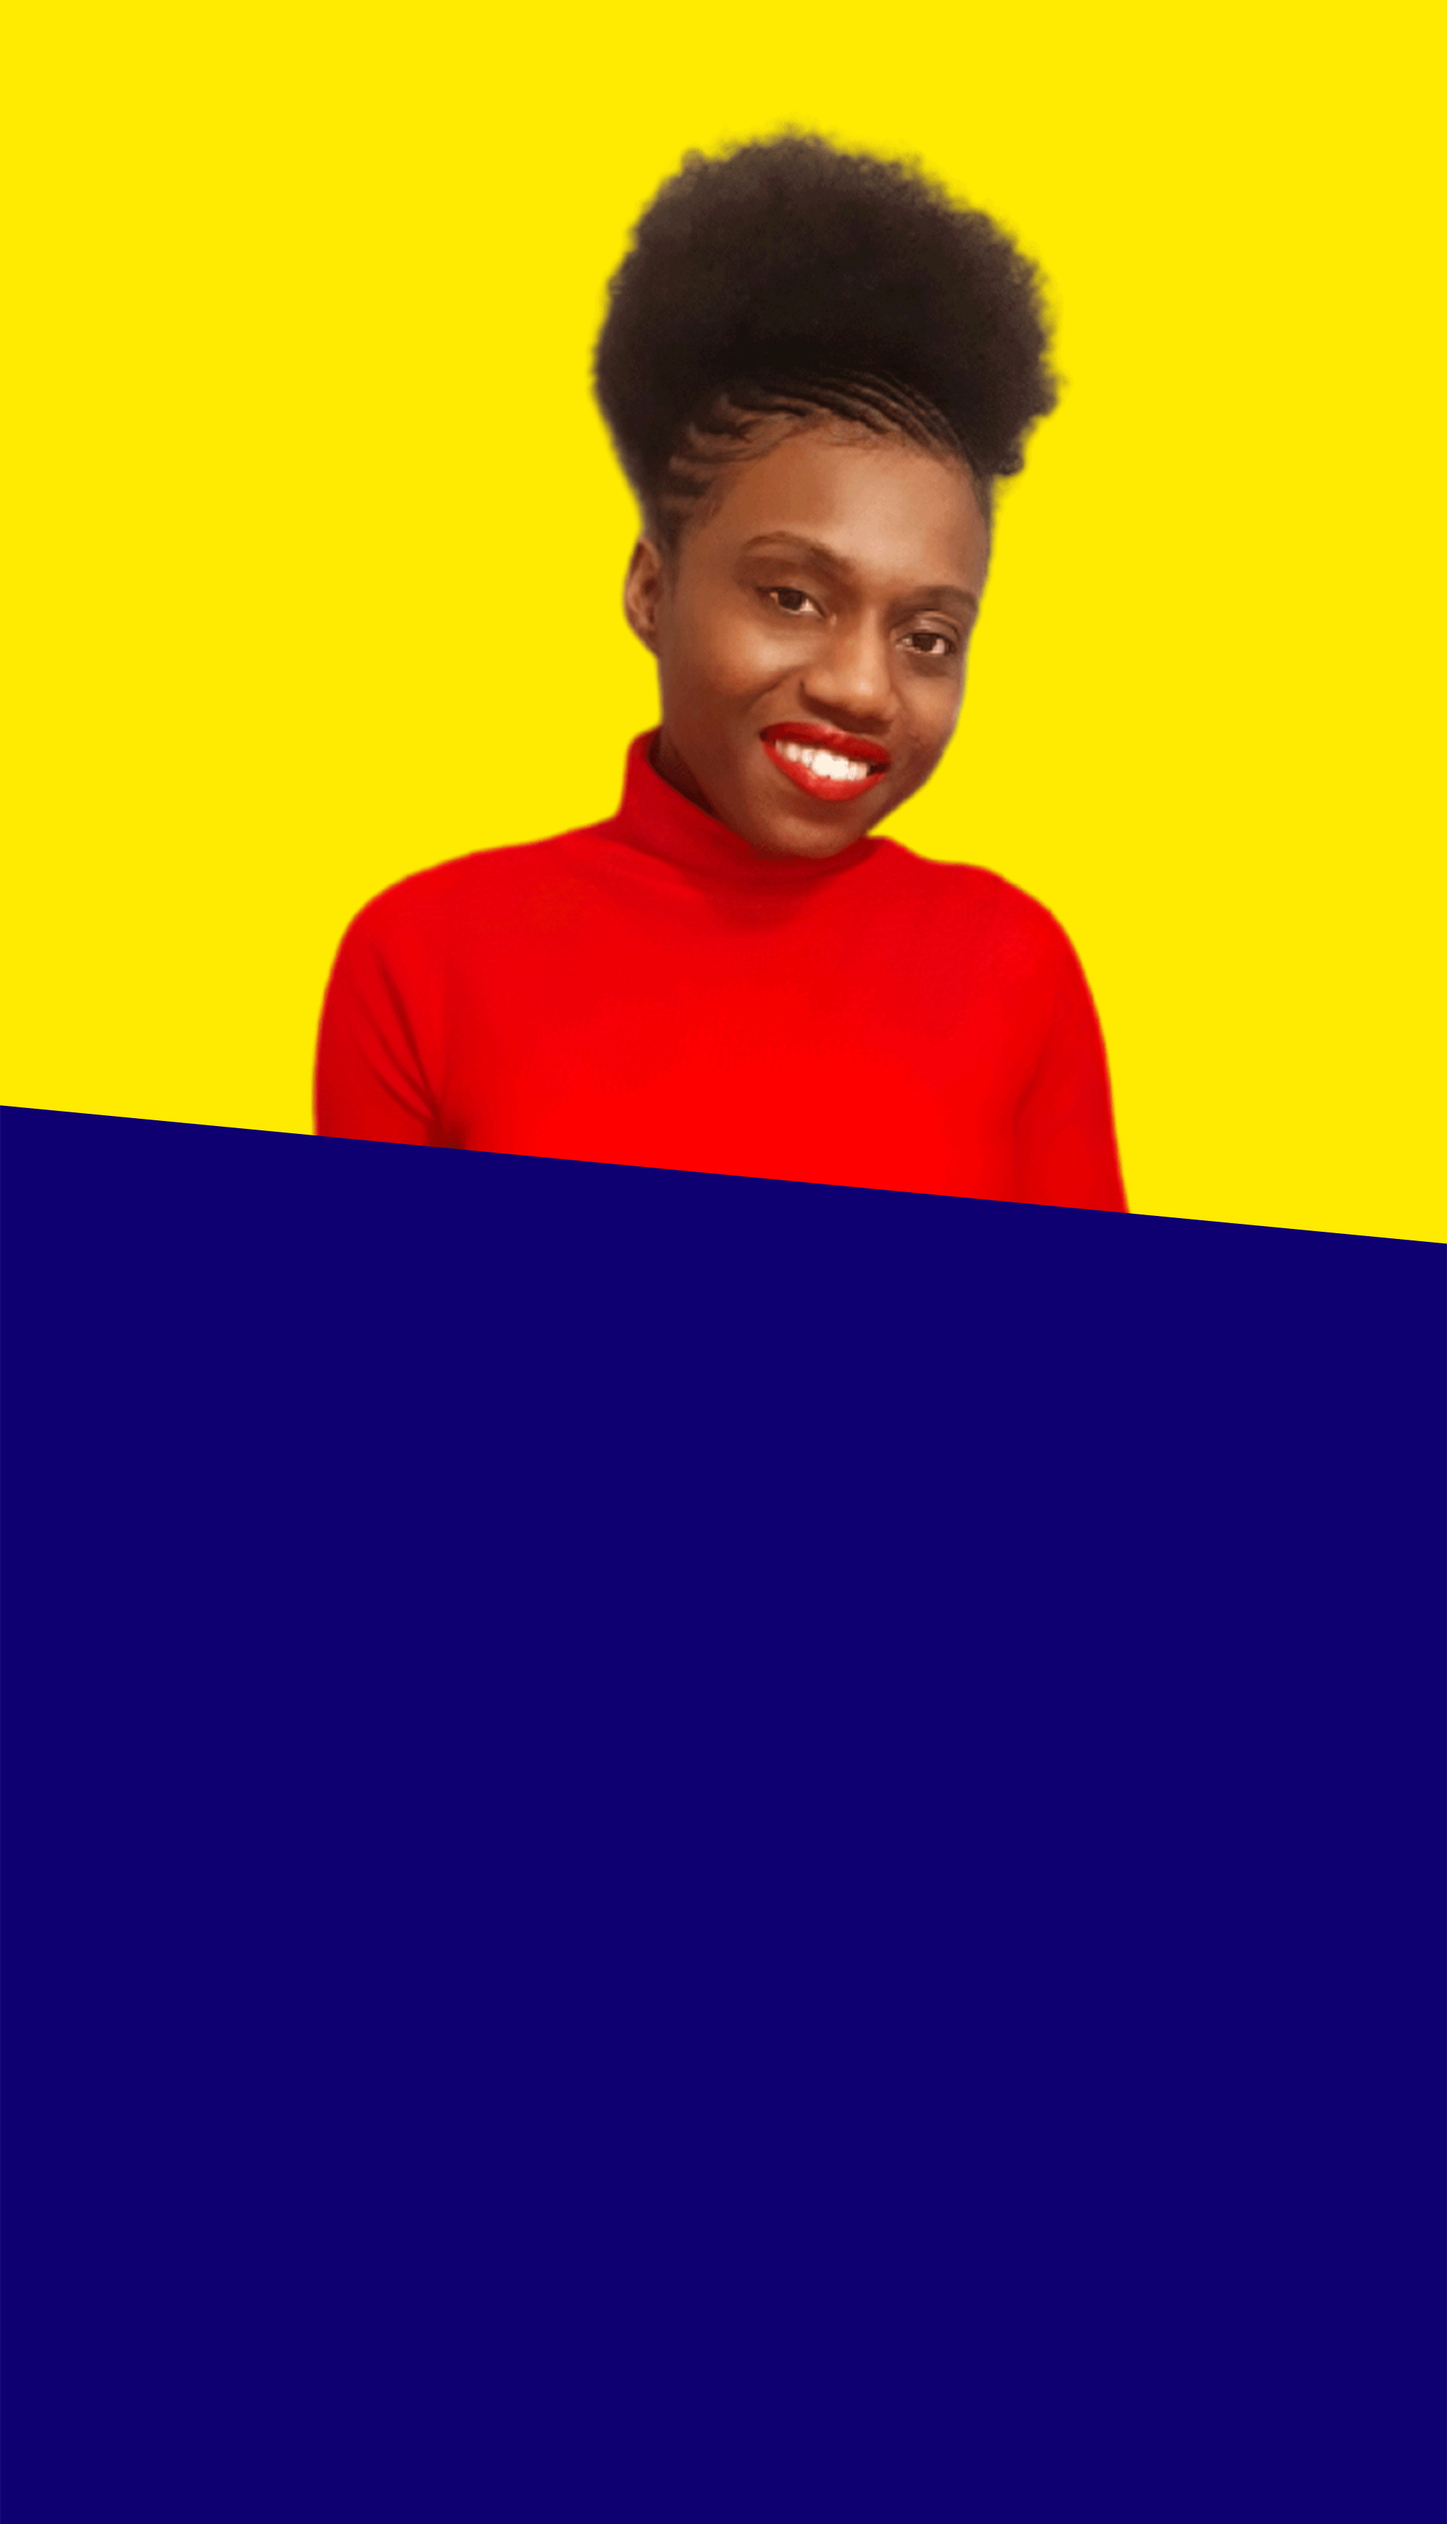
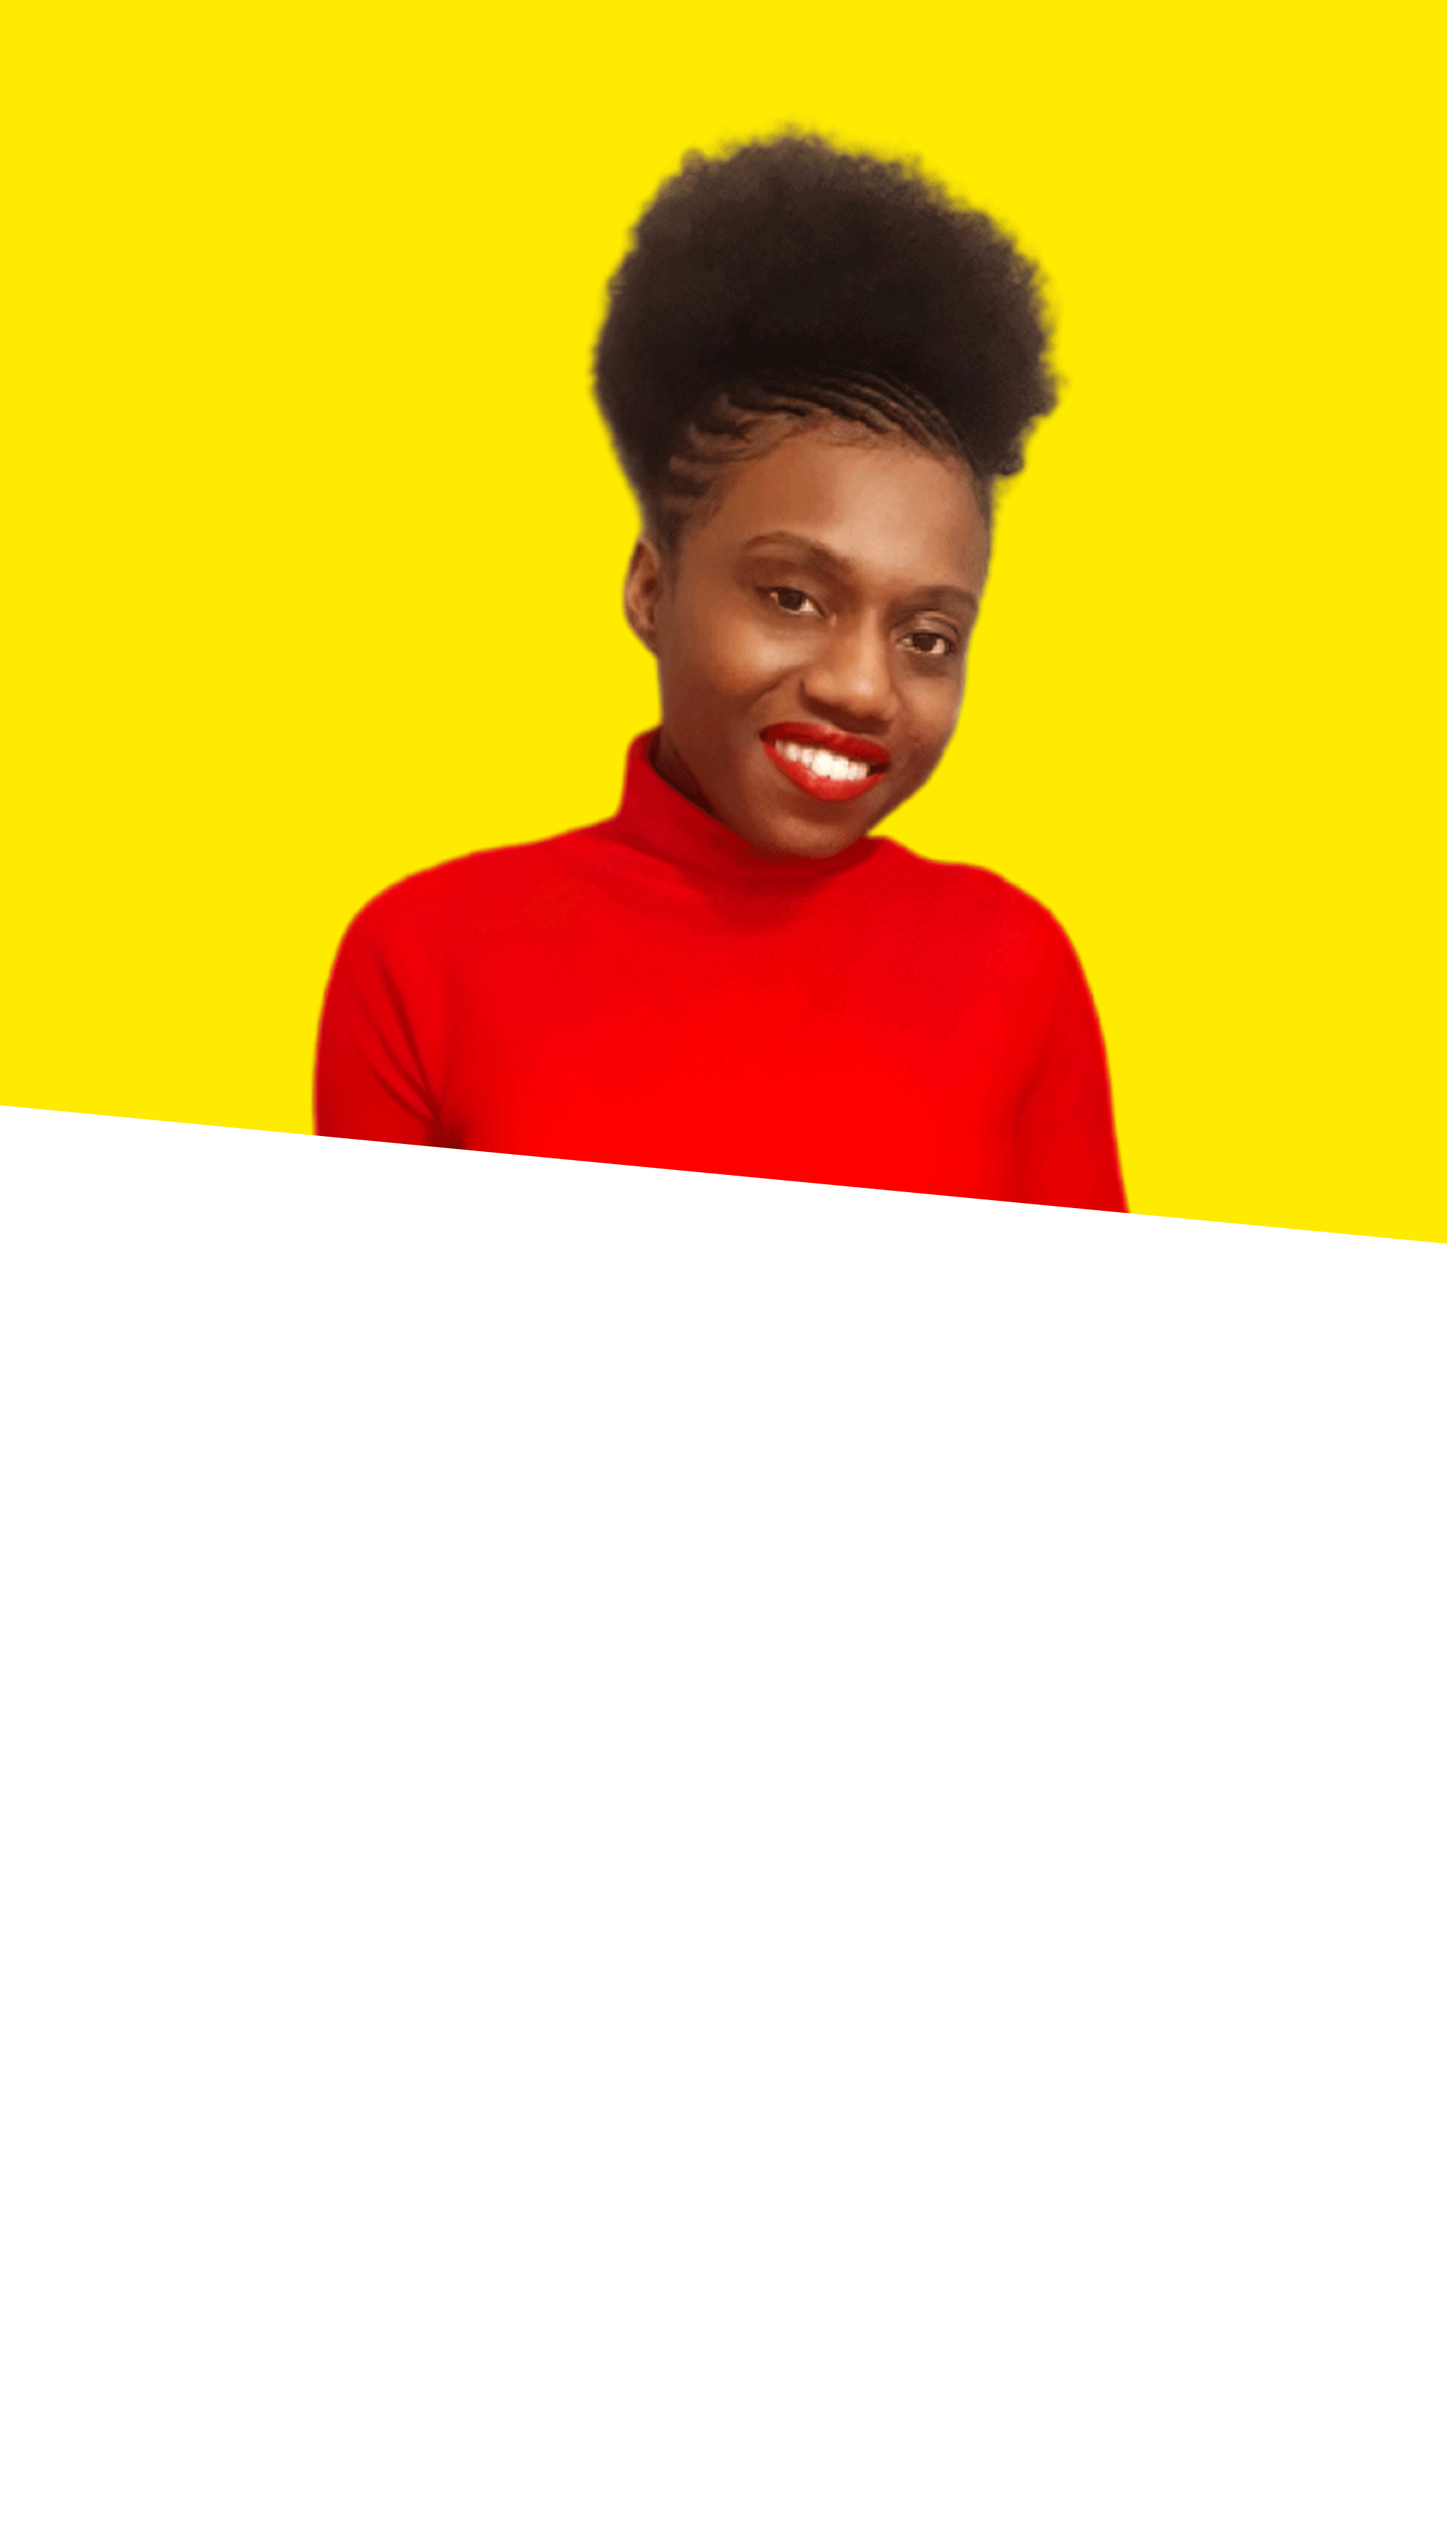
Fixed css problem in about-read-more page

diff --git a/client/src/components/About/AboutMe.css b/client/src/components/About/AboutMe.css
@@ -5,23 +5,25 @@
   overflow: hidden;
   padding-top: 50px;
   padding-left: 50px; }
-  @media screen and (max-width: 768px) {
-    #about-me {
-      background: #25187b url("../../images/about/bg-responsive-about-me.png") no-repeat center;
-      background-size: cover;
-      overflow: initial;
-      padding-left: 0;
-      min-height: 500px;
-      padding-bottom: 40px; } }
+
+@media screen and (max-width: 768px) {
+  #about-me {
+    background: #25187b url("../../images/about/bg-responsive-about-me.png") no-repeat center;
+    background-size: cover;
+    overflow: initial;
+    padding-left: 0;
+    min-height: 500px;
+    padding-bottom: 40px; } }
 
 .grid-1200-px {
   display: flex;
   grid-template-columns: 1fr 450px;
   grid-gap: 50px;
   align-content: center; }
-  @media screen and (max-width: 768px) {
-    .grid-1200-px {
-      display: block; } }
+
+@media screen and (max-width: 768px) {
+  .grid-1200-px {
+    display: block; } }
 
 .img-profil {
   display: none;
@@ -33,34 +35,39 @@
   max-width: 100%;
   padding: 60px;
   text-align: left;
-  color: #fff;
+  color: #0f0072;
   min-height: 300px;
   margin-top: 0px;
   opacity: 1; }
-  @media screen and (max-width: 768px) {
-    .content-infos-about {
-      padding: 25px;
-      margin-top: 380px; } }
-  .content-infos-about .txt-about {
-    margin-top: 25px; }
+
+@media screen and (max-width: 768px) {
+  .content-infos-about {
+    padding: 25px;
+    margin-top: 290px; } }
+
+.content-infos-about .txt-about {
+  margin-top: 25px; }
 
 .title-about {
   font-size: 5em !important;
   text-transform: unset; }
-  @media screen and (max-width: 768px) {
-    .title-about {
-      font-size: 3em !important; } }
+
+@media screen and (max-width: 768px) {
+  .title-about {
+    font-size: 3em !important; } }
 
 .txt-about {
   width: 620px;
   max-width: 100%;
   margin-top: 50px; }
+
+.txt-about .txt-about-big-size {
+  font-size: 2em;
+  line-height: 1.8; }
+
+@media screen and (max-width: 768px) {
   .txt-about .txt-about-big-size {
-    font-size: 2em;
-    line-height: 1.8; }
-    @media screen and (max-width: 768px) {
-      .txt-about .txt-about-big-size {
-        font-size: 1.1em; } }
+    font-size: 1.1em; } }
 
 .link-decouvrir-plus {
   font-size: 1.8em;
@@ -69,11 +76,13 @@
   display: inline-block;
   text-decoration: none;
   transition: .3s ease-in-out; }
-  .link-decouvrir-plus:hover {
-    color: #fc3000; }
-  @media screen and (max-width: 768px) {
-    .link-decouvrir-plus {
-      font-size: 1.3em; } }
+
+.link-decouvrir-plus:hover {
+  color: #fc3000; }
+
+@media screen and (max-width: 768px) {
+  .link-decouvrir-plus {
+    font-size: 1.3em; } }
 
 .none {
   position: absolute;

diff --git a/client/src/components/CirclesLinks/CircleLinks.css b/client/src/components/CirclesLinks/CircleLinks.css
@@ -10,43 +10,50 @@
   cursor: pointer;
   margin-top: 35px;
   margin-bottom: 35px; }
-  .block-circles .circles-content {
-    width: 60px;
-    text-align: center;
-    font-size: 0.9em;
-    margin-right: 15px;
-    color: #0f0072; }
-    .block-circles .circles-content:last-child {
-      margin-right: 0 !important; }
-    .block-circles .circles-content .circles {
-      width: 60px;
-      height: 60px;
-      line-height: 60px;
-      border-radius: 50%;
-      border: 1px solid #0f0072;
-      transition: 0.3s ease-in-out;
-      font-weight: bold; }
-      .block-circles .circles-content .circles:hover {
-        border: none;
-        background: #0f0072;
-        color: #fff; }
-    .block-circles .circles-content .links-name {
-      margin-top: 10px;
-      font-size: 0.8em; }
+
+.block-circles .circles-content {
+  width: 60px;
+  text-align: center;
+  font-size: 0.9em;
+  margin-right: 15px;
+  color: #0f0072; }
+
+.block-circles .circles-content:last-child {
+  margin-right: 0 !important; }
+
+.block-circles .circles-content .circles {
+  width: 60px;
+  height: 60px;
+  line-height: 60px;
+  border-radius: 50%;
+  border: 1px solid #0f0072;
+  transition: 0.3s ease-in-out;
+  font-weight: bold; }
+
+.block-circles .circles-content .circles:hover {
+  border: none;
+  background: #0f0072;
+  color: #fff; }
+
+.block-circles .circles-content .links-name {
+  margin-top: 10px;
+  font-size: 0.8em; }
 
 .dots-slides {
   padding-bottom: 30px; }
-  .dots-slides .dots {
-    cursor: pointer;
-    width: 18px;
-    height: 18px;
-    display: inline-block;
-    vertical-align: middle;
-    border: 1px solid #0f0072;
-    border-radius: 100px;
-    margin-right: 10px; }
-    .dots-slides .dots:hover {
-      background: #0f0072; }
+
+.dots-slides .dots {
+  cursor: pointer;
+  width: 18px;
+  height: 18px;
+  display: inline-block;
+  vertical-align: middle;
+  border: 1px solid #0f0072;
+  border-radius: 100px;
+  margin-right: 10px; }
+
+.dots-slides .dots:hover {
+  background: #0f0072; }
 
 .active {
   background: #0f0072; }

diff --git a/client/src/components/About/AboutMe.scss b/client/src/components/About/AboutMe.scss
@@ -48,7 +48,7 @@
     max-width: 100%;
     padding: 60px;
     text-align: left;
-    color: #fff;
+    color: #0f0072;
     min-height: 300px;
     margin-top: 0px;
     opacity: 1;
@@ -58,7 +58,7 @@
     @media screen and (max-width: 768px) {
         // padding: 30px;
         padding: 25px;
-        margin-top: 380px;
+        margin-top: 290px;
     }
 
     .txt-about {

diff --git a/client/src/components/About/AboutMeReadMore.css b/client/src/components/About/AboutMeReadMore.css
@@ -42,12 +42,12 @@
   margin: auto; }
 
 #hobbies .content-hobbies {
-  background: #fff;
+  background: #0f0072;
   background-attachment: fixed;
   background-size: 25%;
   background-position: 25%;
-  padding: 20px 50px;
-  color: #0f0072; }
+  padding: 50px 50px;
+  color: #fff; }
 
 #hobbies .content-hobbies .txt-intro-hobbies {
   margin-top: 20px;

diff --git a/client/src/components/About/AboutMeReadMore.scss b/client/src/components/About/AboutMeReadMore.scss
@@ -62,12 +62,12 @@
 
 
     .content-hobbies {
-        background: #fff;
+        background: #0f0072;
         background-attachment: fixed;
         background-size: 25%;
         background-position: 25%;
-        padding: 20px 50px;
-        color: #0f0072;
+        padding: 50px 50px;
+        color: #fff;
 
 
 
